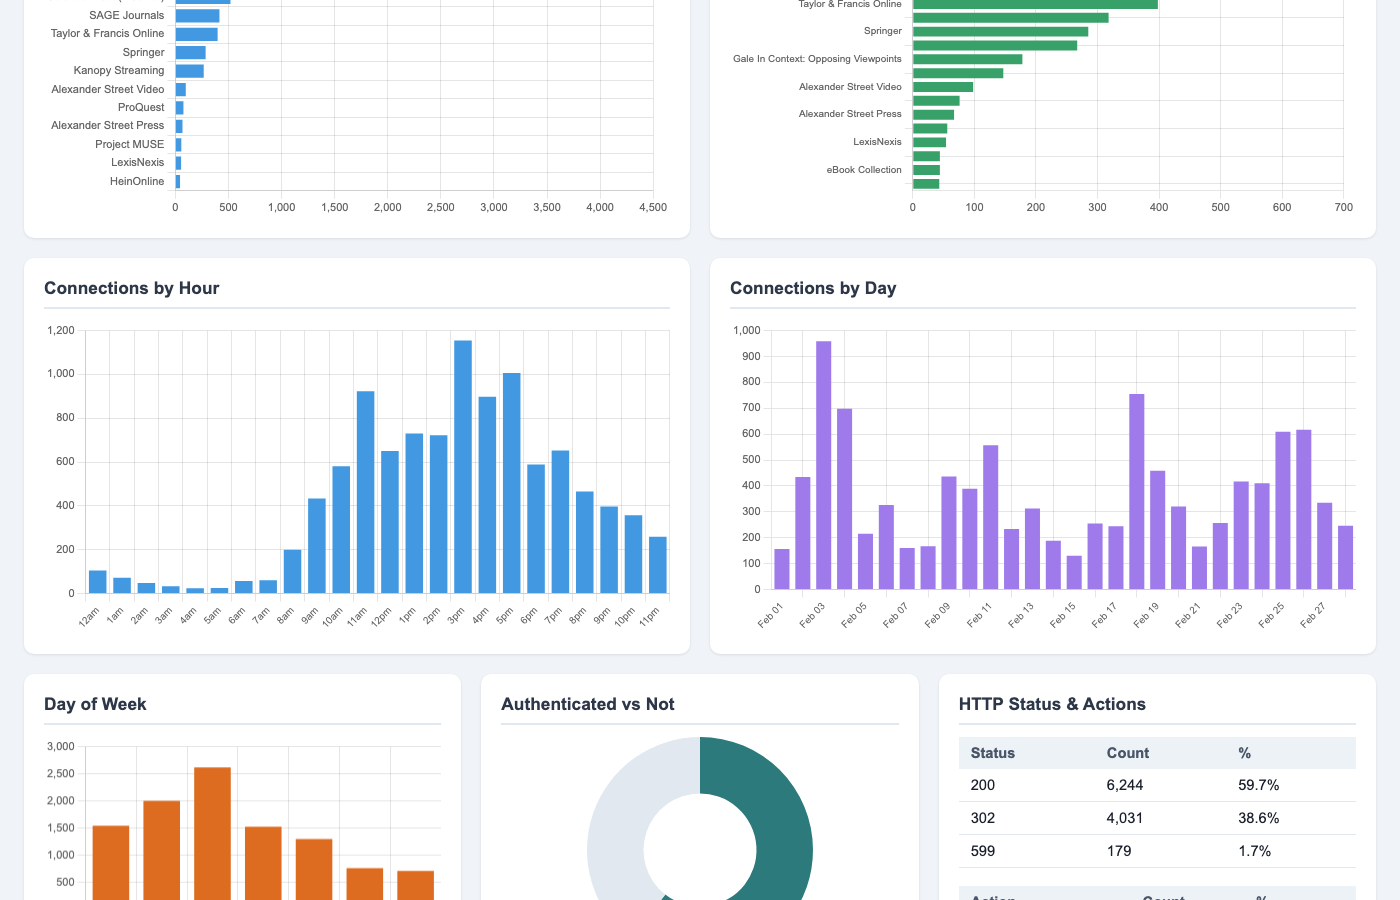
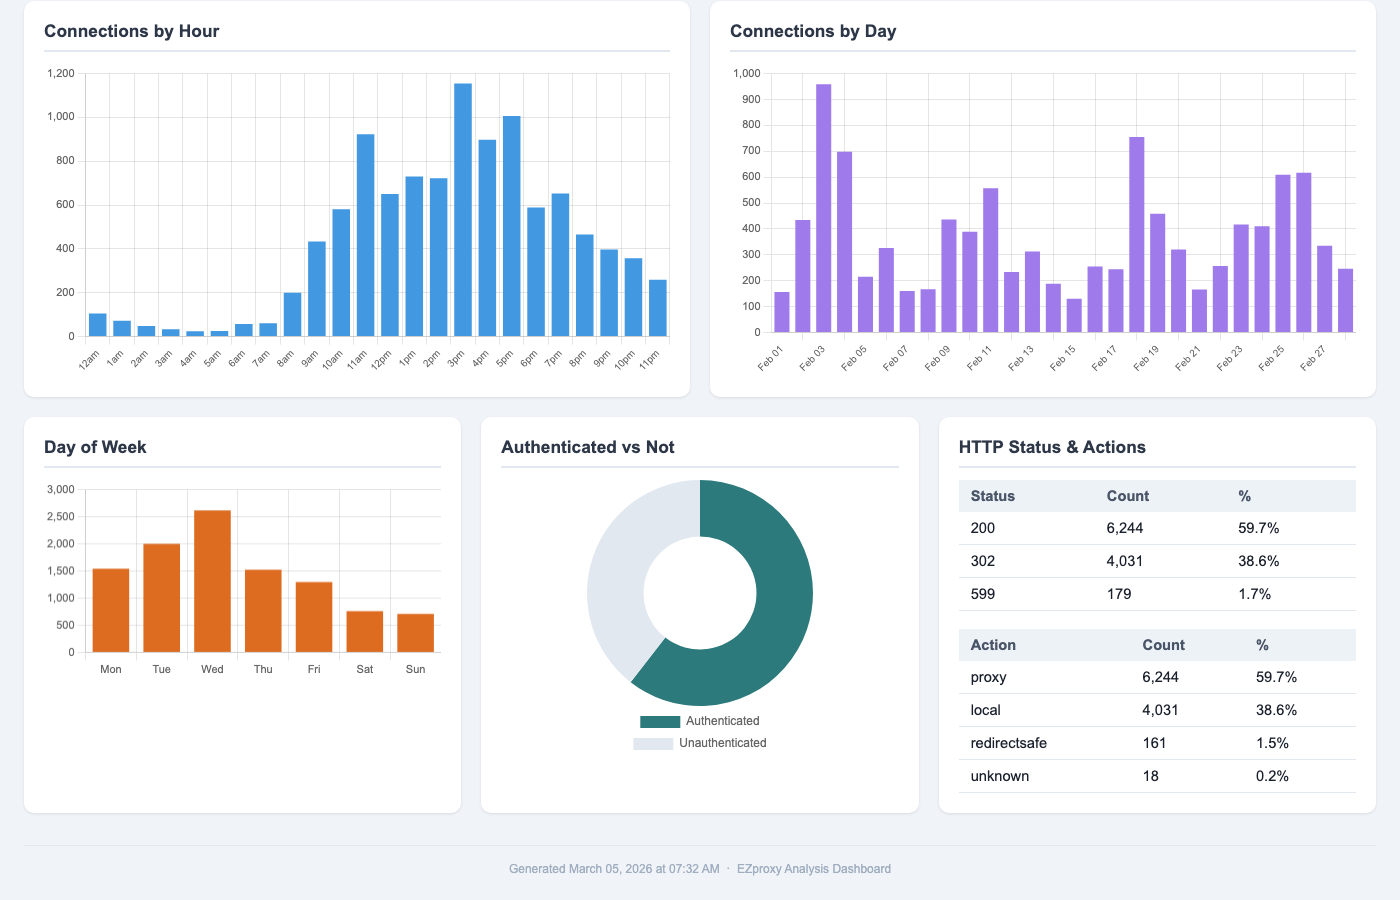
Update screenshots and README for new features
- Regenerated screenshots showing date filter and export buttons
- Added date range filter, referring domains chart, and Excel/PDF
  export to the feature list in README

diff --git a/README.md b/README.md
@@ -11,12 +11,15 @@ This project reads tab-separated EZproxy SPU logs, classifies connections by ins
 Generates a self-contained HTML file with interactive charts:
 
 - Summary cards (total connections, unique users, sessions, Primo referral rate)
+- Date range filter to narrow the dashboard to a specific period
 - On-campus vs off-campus pie chart
 - Institution breakdown bar chart
 - Top platforms and top databases (two side-by-side charts)
+- Top referring domains bar chart
 - Connections by hour, day, and day of week
 - Authenticated vs unauthenticated donut chart
 - HTTP status code and action type tables
+- Export to Excel (7 sheets) and Save as PDF
 
 ```
 python3 dashboard.py data/institutions.csv path/to/logfile.log output.html
@@ -24,7 +27,7 @@ python3 dashboard.py data/institutions.csv path/to/logfile.log output.html
 
 Open `output.html` in any browser to view the dashboard.
 
-![Dashboard top — summary cards, campus split, institution breakdown, top platforms and databases](screenshots/dashboard-top.png)
+![Dashboard top — export buttons, date filter, summary cards, campus split, institution breakdown, top platforms and databases](screenshots/dashboard-top.png)
 
 ![Dashboard bottom — hourly and daily charts, day of week, authentication, HTTP status](screenshots/dashboard-bottom.png)
 
